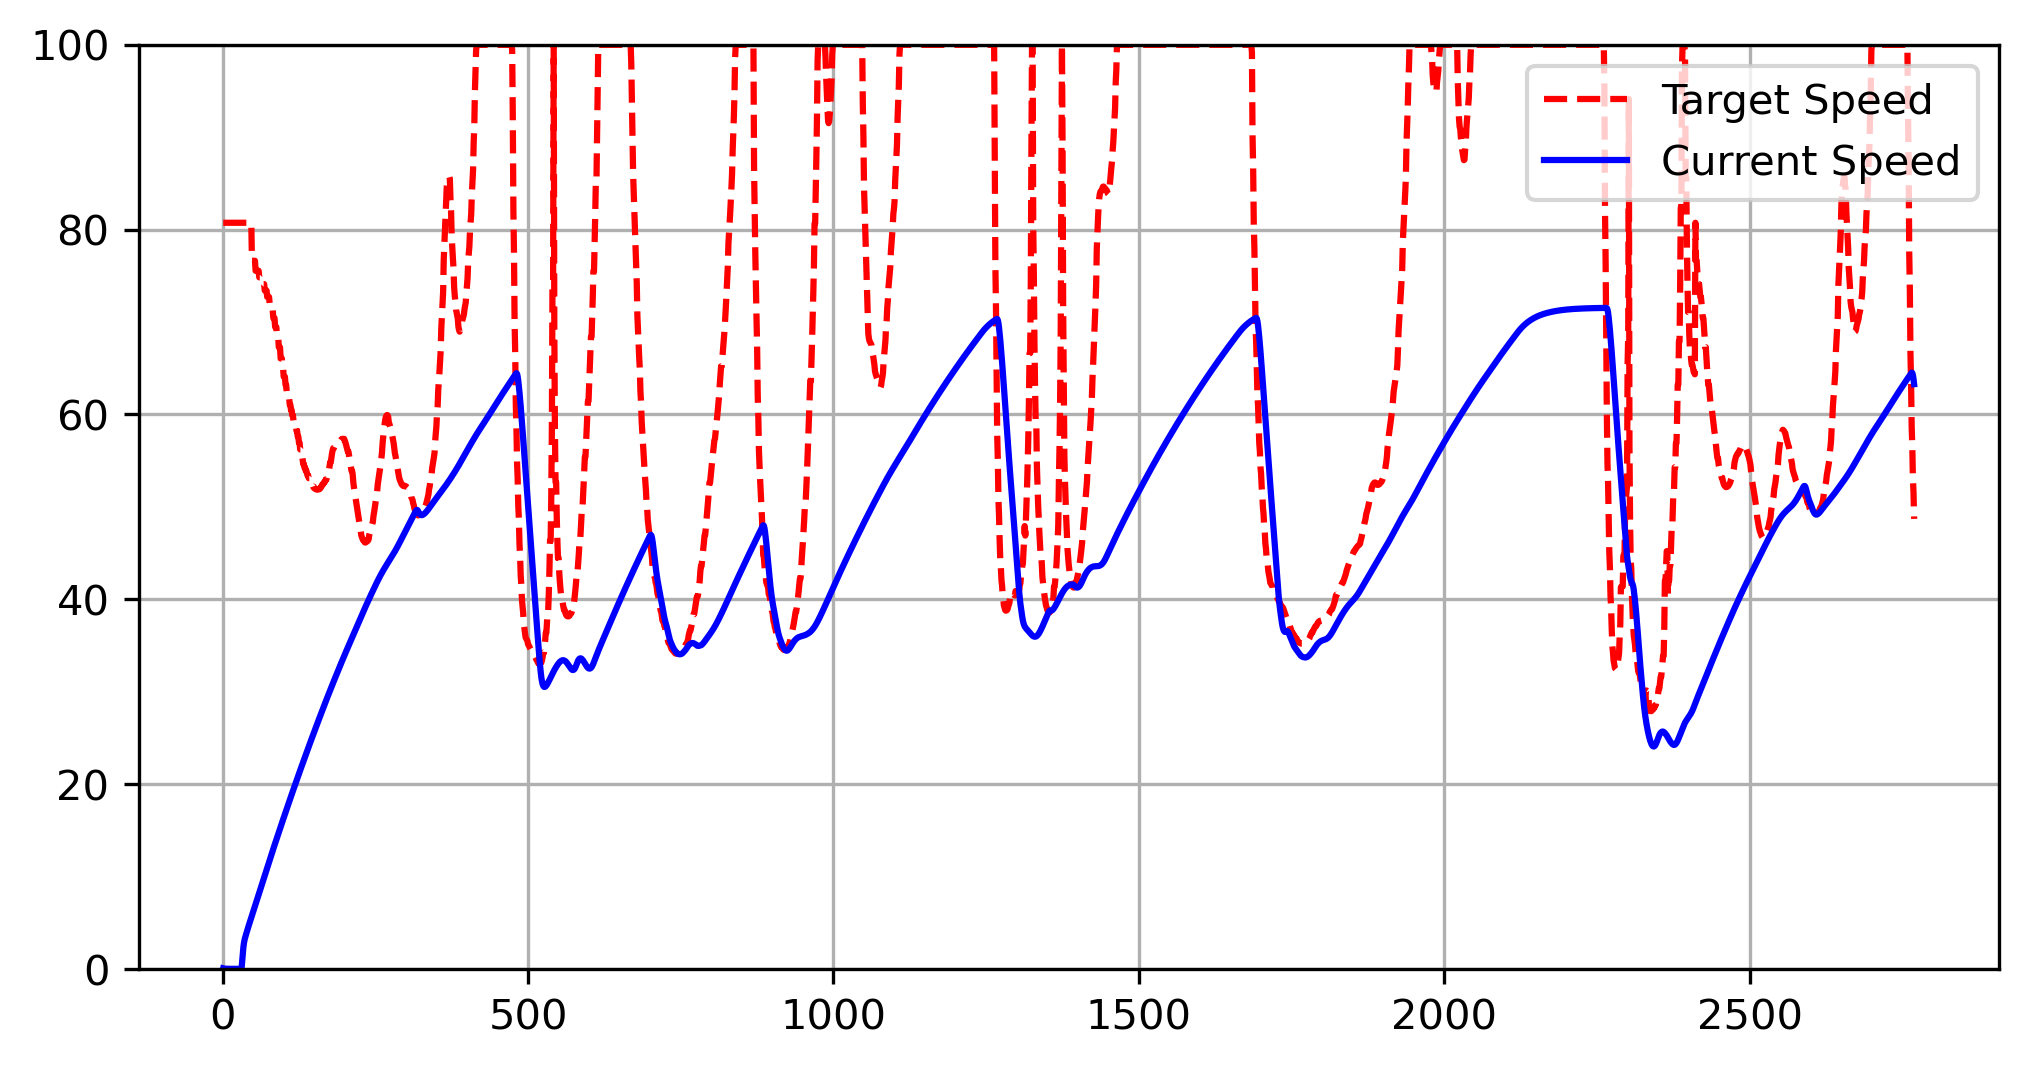
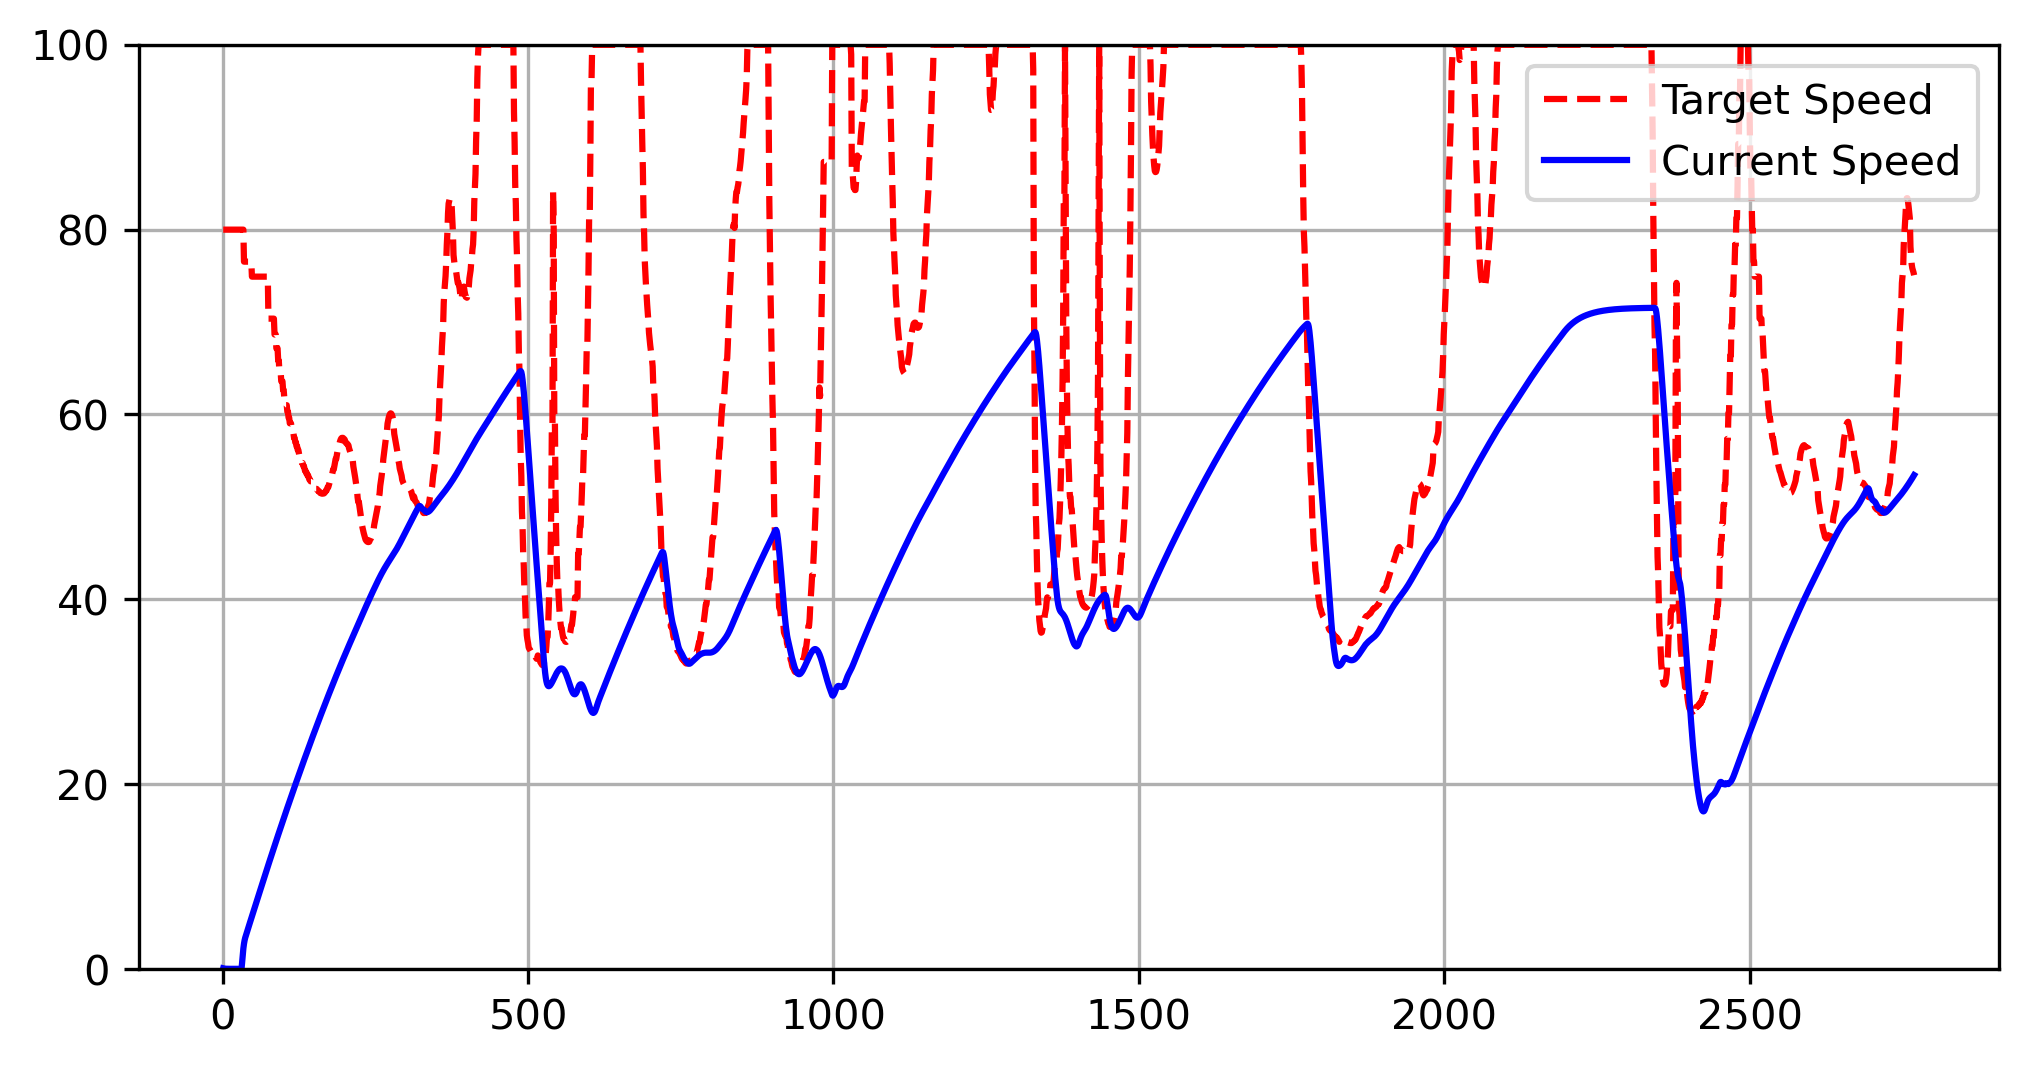
stash without stashing

Changed region(s): [[0.1243, 0.0309, 0.963, 0.7416], [0.0932, 0.1854, 0.1243, 0.2472], [0.1243, 0.2472, 0.1553, 0.2781]]

diff --git a/competition_code/submission.py b/competition_code/submission.py
@@ -121,7 +121,7 @@ class RoarCompetitionSolution:
         current_waypoint = self.maneuverable_waypoints[self.current_waypoint_idx]
         target_waypoint = self.maneuverable_waypoints[(self.current_waypoint_idx + steer_look_ahead) % len(self.maneuverable_waypoints)]
 
-        steer_angle = SteerController.get_target_angle(target_waypoint, vehicle_location, vehicle_rotation, WHEELBASE)
+        #steer_angle = SteerController.get_target_angle(target_waypoint, vehicle_location, vehicle_rotation, WHEELBASE)
 
         spd_look_ahead = np.clip(int(vehicle_velocity_norm), 33, 53)
         
@@ -130,19 +130,19 @@ class RoarCompetitionSolution:
         curvature = WaypointCalculator.curvature(current_waypoint, speed_wp[0], speed_wp[1])
 
         # Calculate delta vector towards the target waypoint
-        #vector_to_waypoint = (target_waypoint.location - vehicle_location)[:2]
-        #heading_to_waypoint = np.arctan2(vector_to_waypoint[1],vector_to_waypoint[0])
+        vector_to_waypoint = (target_waypoint.location - vehicle_location)[:2]
+        heading_to_waypoint = np.arctan2(vector_to_waypoint[1],vector_to_waypoint[0])
 
         # Calculate delta angle towards the target waypoint
-        #delta_heading = normalize_rad(heading_to_waypoint - vehicle_rotation[2])
+        delta_heading = normalize_rad(heading_to_waypoint - vehicle_rotation[2])
 
         # Proportional controller to steer the vehicle towards the target waypoint
-        #steer_control = (
-        #    -12.0 / np.sqrt(vehicle_velocity_norm) * delta_heading / np.pi
-        #) if vehicle_velocity_norm > 1e-2 else -np.sign(delta_heading)
-        #steer_control = np.clip(steer_control, -1.0, 1.0)
+        steer_control = (
+            -12.0 / np.sqrt(vehicle_velocity_norm) * delta_heading / np.pi
+        ) if vehicle_velocity_norm > 1e-2 else -np.sign(delta_heading)
+        steer_control = np.clip(steer_control, -1.0, 1.0)
 
-        steer_control = np.clip(steer_angle/MAX_TURN_RAD, -1.0, 1.0)
+        #steer_control = np.clip(steer_angle/MAX_TURN_RAD, -1.0, 1)
 
         target_speed = SpeedMap.get_target(curvature)
 

diff --git a/competition_code/util/SteerMap.py b/competition_code/util/SteerMap.py
@@ -13,7 +13,4 @@ class SteerMap:
         else:
             return 25
 
-    #@staticmethod
-    #def look_ahead_dist(v):
-    #    return np.clip(int(0.1 * v + 2), 4, 20)
     
